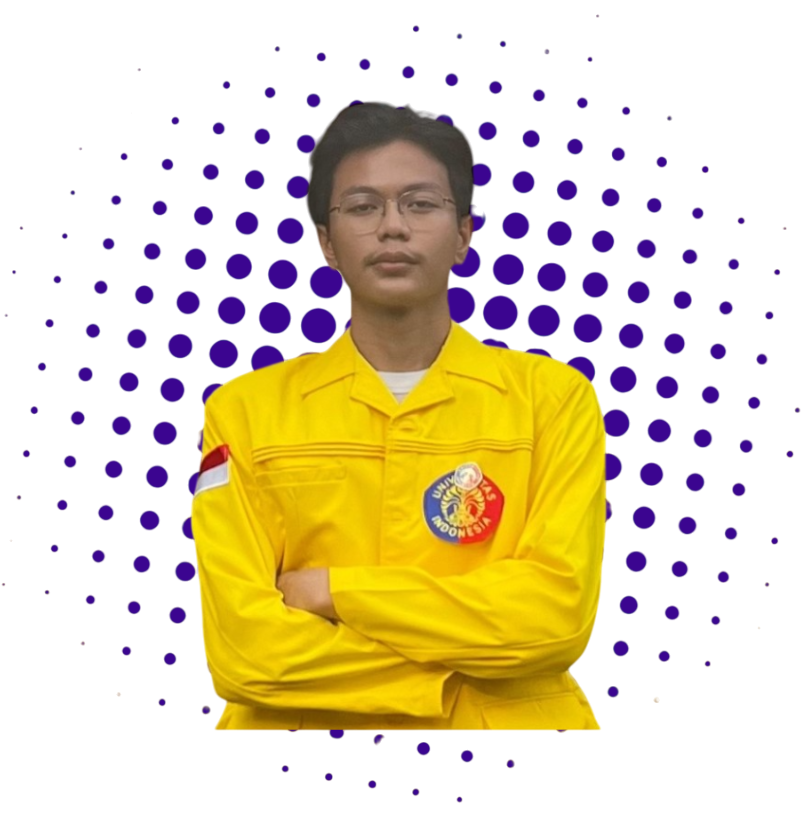
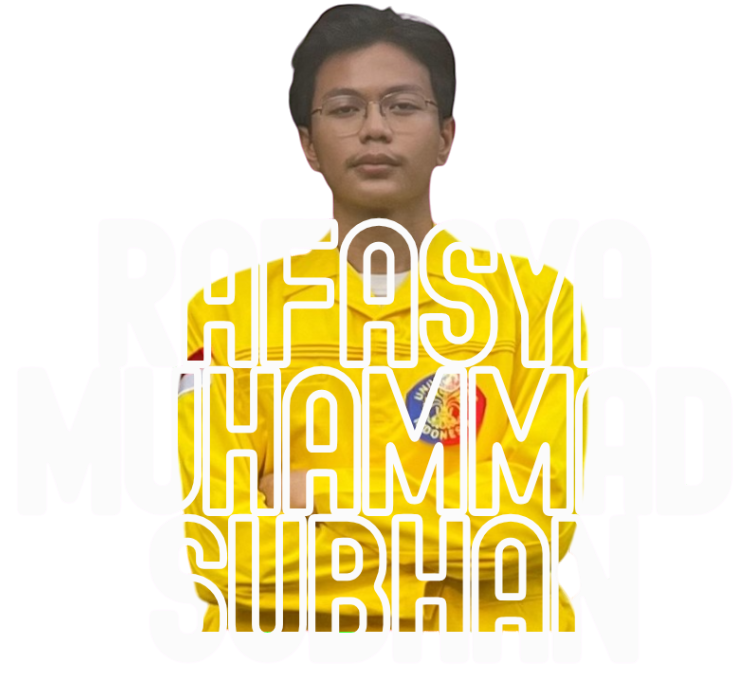
Changing the picture

diff --git a/profile.html b/profile.html
@@ -35,18 +35,6 @@
             margin: 0 auto;  
         }
 
-        .profile-header p { 
-            font-size: 25px; 
-            font-weight: bold; 
-            color: #fff; 
-            margin-top: 0; 
-            margin-bottom: 0; 
-            text-align: center;
-            line-height: 0.3; 
-            font-family: 'PT Serif', serif;
-            
-        }
-
         .biodata {
             width: 100%; 
             background-color: #130150; 
@@ -152,9 +140,8 @@
     <div class="profile-content">
         <div class="profile-header">
             <img src="images/Jakun-Background.png" alt="Foto Profil Rafasya">
-            <p>RAFASYA MUHAMMAD SUBHAN</p> 
         </div>
-
+        
         <div class="biodata">
             <div class="biodata-content-wrapper">
             <img src="images/GWK.jpg" alt="Foto Profil di GWK">
